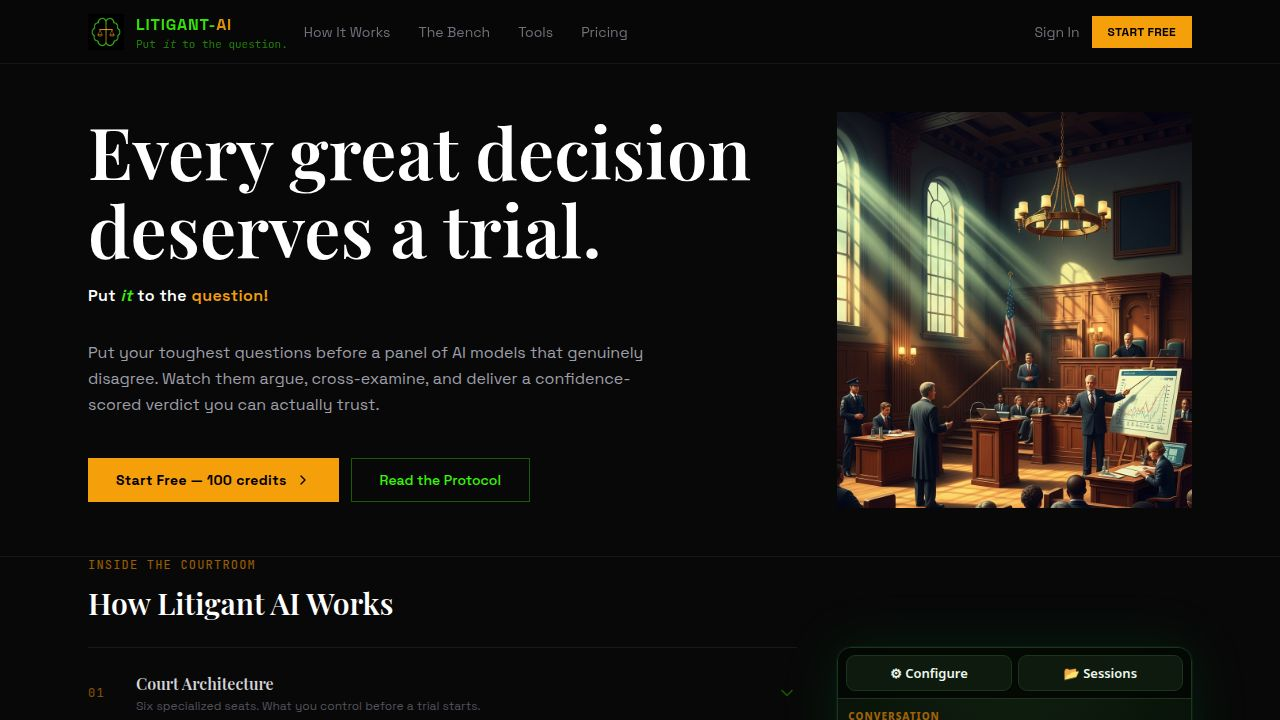
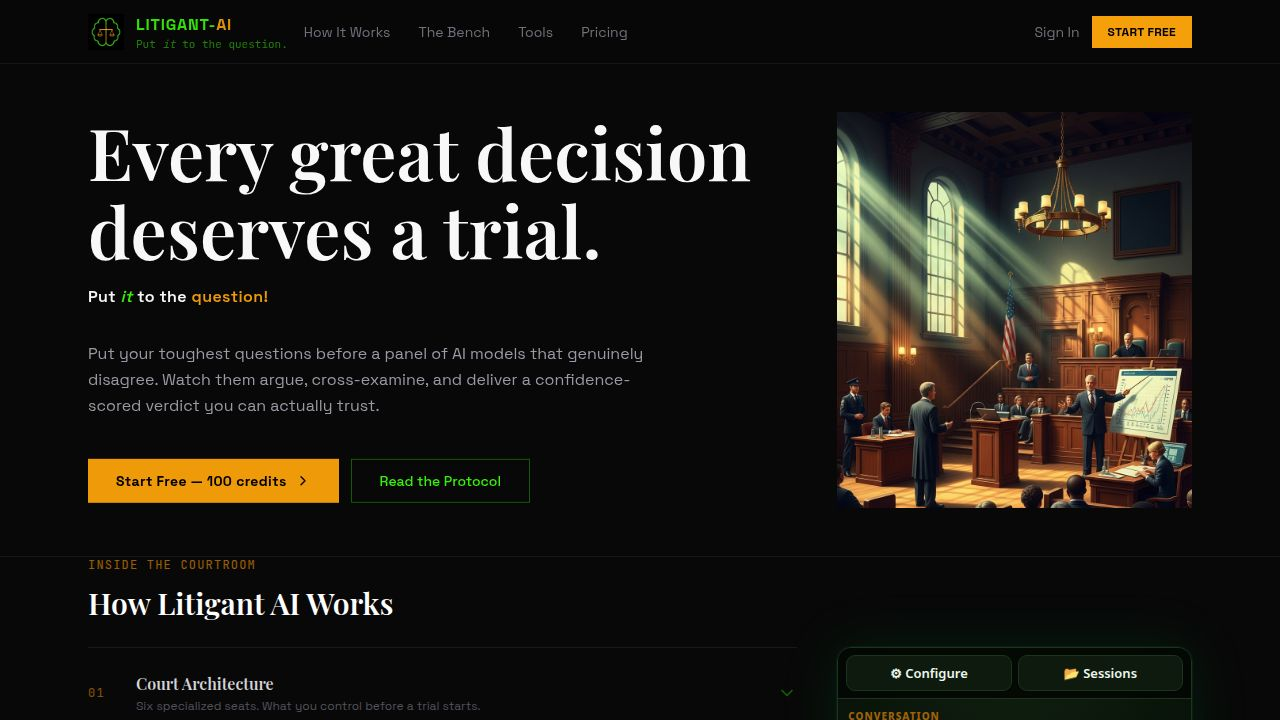
Restore development server for automated testing purposes
Re-enable the development server by updating the artifact.toml configuration to execute the dev command. This was necessary to allow automated end-to-end tests to pass, as they rely on the development server for their execution environment.

Replit-Commit-Author: Agent
Replit-Commit-Session-Id: 438ad075-e689-4932-a55e-c6183c91ffb4
Replit-Commit-Checkpoint-Type: full_checkpoint
Replit-Commit-Event-Id: f5edb2e9-7853-492a-ac23-9a8daffcbb7e
Replit-Commit-Screenshot-Url: https://storage.googleapis.com/screenshot-production-us-central1/2bc7216c-3112-4806-a45d-fb63cb185ae4/438ad075-e689-4932-a55e-c6183c91ffb4/Bc6pdLd
Replit-Helium-Checkpoint-Created: true

diff --git a/artifacts/gh-brain/test-results/pdf-export-PDF-export-—-tr-3a40d-nd-only-success-toast-fires/error-context.md b/artifacts/gh-brain/test-results/pdf-export-PDF-export-—-tr-3a40d-nd-only-success-toast-fires/error-context.md
@@ -1,0 +1,136 @@
+# Instructions
+
+- Following Playwright test failed.
+- Explain why, be concise, respect Playwright best practices.
+- Provide a snippet of code with the fix, if possible.
+
+# Test info
+
+- Name: pdf-export.spec.ts >> PDF export — trim guard >> short content: PDF downloads and only success toast fires
+- Location: e2e/pdf-export.spec.ts:41:3
+
+# Error details
+
+```
+Error: page.goto: net::ERR_HTTP_RESPONSE_CODE_FAILURE at https://2bc7216c-3112-4806-a45d-fb63cb185ae4-00-21aabxfgxor81.worf.replit.dev/session?e2e=1
+Call log:
+  - navigating to "https://2bc7216c-3112-4806-a45d-fb63cb185ae4-00-21aabxfgxor81.worf.replit.dev/session?e2e=1", waiting until "domcontentloaded"
+
+```
+
+# Page snapshot
+
+```yaml
+- generic [ref=e3]:
+  - generic [ref=e6]:
+    - heading "This page isn’t working" [level=1] [ref=e7]
+    - paragraph [ref=e8]:
+      - strong [ref=e9]: 2bc7216c-3112-4806-a45d-fb63cb185ae4-00-21aabxfgxor81.worf.replit.dev
+      - text: is currently unable to handle this request.
+    - generic [ref=e10]: HTTP ERROR 502
+  - button "Reload" [ref=e13] [cursor=pointer]
+```
+
+# Test source
+
+```ts
+  1  | import { test, expect } from "@playwright/test";
+  2  | 
+  3  | /**
+  4  |  * PDF export end-to-end tests.
+  5  |  *
+  6  |  * These tests use two dev-only hooks that were added alongside this test file:
+  7  |  *
+  8  |  * 1. ?e2e=1 URL param  — ProtectedRoute skips Firebase auth checks in DEV mode
+  9  |  *    so we can access /session without signing in.
+  10 |  *
+  11 |  * 2. window.__testPdfExport(finalAnswer) — registered by SessionPage's useEffect
+  12 |  *    (DEV only). Injects a completed session state (phase="complete",
+  13 |  *    config.format="pdf") with the supplied finalAnswer, making the output panel
+  14 |  *    and PDF download button visible without running a real AI session.
+  15 |  */
+  16 | 
+  17 | const SESSION_URL = "/session?e2e=1";
+  18 | 
+  19 | async function loadSessionPage(page: import("@playwright/test").Page) {
+> 20 |   await page.goto(SESSION_URL, { waitUntil: "domcontentloaded" });
+     |              ^ Error: page.goto: net::ERR_HTTP_RESPONSE_CODE_FAILURE at https://2bc7216c-3112-4806-a45d-fb63cb185ae4-00-21aabxfgxor81.worf.replit.dev/session?e2e=1
+  21 |   // Wait for React to mount and the dev hook to register
+  22 |   await page.waitForFunction(
+  23 |     () => typeof (window as any).__testPdfExport === "function",
+  24 |     { timeout: 15_000 }
+  25 |   );
+  26 | }
+  27 | 
+  28 | async function injectCompletedSession(
+  29 |   page: import("@playwright/test").Page,
+  30 |   finalAnswer: string
+  31 | ) {
+  32 |   await page.evaluate((fa) => {
+  33 |     (window as any).__testPdfExport(fa);
+  34 |   }, finalAnswer);
+  35 | 
+  36 |   // Wait for the output panel to appear (phase transitions to "complete")
+  37 |   await page.waitForSelector('button:has-text("PDF")', { timeout: 10_000 });
+  38 | }
+  39 | 
+  40 | test.describe("PDF export — trim guard", () => {
+  41 |   test("short content: PDF downloads and only success toast fires", async ({
+  42 |     page,
+  43 |   }) => {
+  44 |     await loadSessionPage(page);
+  45 | 
+  46 |     const shortAnswer = "The court finds in favour of the claimant.";
+  47 |     await injectCompletedSession(page, shortAnswer);
+  48 | 
+  49 |     // Start watching for a download triggered by jsPDF's doc.save()
+  50 |     const downloadPromise = page.waitForEvent("download", { timeout: 10_000 });
+  51 | 
+  52 |     // Click the "PDF" download button (not the "Print" button)
+  53 |     // It is the button whose exact text is "PDF" — Print comes right after it
+  54 |     await page.locator('button', { hasText: /^PDF$/ }).click();
+  55 | 
+  56 |     // The download must succeed
+  57 |     const download = await downloadPromise;
+  58 |     expect(download.suggestedFilename()).toMatch(/brain-session-\d+\.pdf/);
+  59 | 
+  60 |     // Success toast must appear
+  61 |     await expect(page.locator("text=PDF downloaded")).toBeVisible({
+  62 |       timeout: 5_000,
+  63 |     });
+  64 | 
+  65 |     // Warning toast must NOT appear
+  66 |     const warningToast = page.locator("text=trimmed");
+  67 |     await expect(warningToast).not.toBeVisible();
+  68 |   });
+  69 | 
+  70 |   test("long content (>15 000 chars): PDF downloads AND trim warning toast fires", async ({
+  71 |     page,
+  72 |   }) => {
+  73 |     await loadSessionPage(page);
+  74 | 
+  75 |     // 20 000 chars — well over the 15 000 char limit
+  76 |     const longAnswer = "A".repeat(20_000);
+  77 |     await injectCompletedSession(page, longAnswer);
+  78 | 
+  79 |     const downloadPromise = page.waitForEvent("download", { timeout: 10_000 });
+  80 | 
+  81 |     await page.locator('button', { hasText: /^PDF$/ }).click();
+  82 | 
+  83 |     // The download must succeed even for trimmed content
+  84 |     const download = await downloadPromise;
+  85 |     expect(download.suggestedFilename()).toMatch(/brain-session-\d+\.pdf/);
+  86 | 
+  87 |     // Success toast must appear
+  88 |     await expect(page.locator("text=PDF downloaded")).toBeVisible({
+  89 |       timeout: 5_000,
+  90 |     });
+  91 | 
+  92 |     // Warning toast must ALSO appear
+  93 |     await expect(page.locator("text=trimmed")).toBeVisible({
+  94 |       timeout: 5_000,
+  95 |     });
+  96 |   });
+  97 | });
+  98 | 
+```

diff --git a/artifacts/gh-brain/test-results/pdf-export-PDF-export-—-tr-8f87d-ND-trim-warning-toast-fires/error-context.md b/artifacts/gh-brain/test-results/pdf-export-PDF-export-—-tr-8f87d-ND-trim-warning-toast-fires/error-context.md
@@ -1,0 +1,136 @@
+# Instructions
+
+- Following Playwright test failed.
+- Explain why, be concise, respect Playwright best practices.
+- Provide a snippet of code with the fix, if possible.
+
+# Test info
+
+- Name: pdf-export.spec.ts >> PDF export — trim guard >> long content (>15 000 chars): PDF downloads AND trim warning toast fires
+- Location: e2e/pdf-export.spec.ts:70:3
+
+# Error details
+
+```
+Error: page.goto: net::ERR_HTTP_RESPONSE_CODE_FAILURE at https://2bc7216c-3112-4806-a45d-fb63cb185ae4-00-21aabxfgxor81.worf.replit.dev/session?e2e=1
+Call log:
+  - navigating to "https://2bc7216c-3112-4806-a45d-fb63cb185ae4-00-21aabxfgxor81.worf.replit.dev/session?e2e=1", waiting until "domcontentloaded"
+
+```
+
+# Page snapshot
+
+```yaml
+- generic [ref=e3]:
+  - generic [ref=e6]:
+    - heading "This page isn’t working" [level=1] [ref=e7]
+    - paragraph [ref=e8]:
+      - strong [ref=e9]: 2bc7216c-3112-4806-a45d-fb63cb185ae4-00-21aabxfgxor81.worf.replit.dev
+      - text: is currently unable to handle this request.
+    - generic [ref=e10]: HTTP ERROR 502
+  - button "Reload" [ref=e13] [cursor=pointer]
+```
+
+# Test source
+
+```ts
+  1  | import { test, expect } from "@playwright/test";
+  2  | 
+  3  | /**
+  4  |  * PDF export end-to-end tests.
+  5  |  *
+  6  |  * These tests use two dev-only hooks that were added alongside this test file:
+  7  |  *
+  8  |  * 1. ?e2e=1 URL param  — ProtectedRoute skips Firebase auth checks in DEV mode
+  9  |  *    so we can access /session without signing in.
+  10 |  *
+  11 |  * 2. window.__testPdfExport(finalAnswer) — registered by SessionPage's useEffect
+  12 |  *    (DEV only). Injects a completed session state (phase="complete",
+  13 |  *    config.format="pdf") with the supplied finalAnswer, making the output panel
+  14 |  *    and PDF download button visible without running a real AI session.
+  15 |  */
+  16 | 
+  17 | const SESSION_URL = "/session?e2e=1";
+  18 | 
+  19 | async function loadSessionPage(page: import("@playwright/test").Page) {
+> 20 |   await page.goto(SESSION_URL, { waitUntil: "domcontentloaded" });
+     |              ^ Error: page.goto: net::ERR_HTTP_RESPONSE_CODE_FAILURE at https://2bc7216c-3112-4806-a45d-fb63cb185ae4-00-21aabxfgxor81.worf.replit.dev/session?e2e=1
+  21 |   // Wait for React to mount and the dev hook to register
+  22 |   await page.waitForFunction(
+  23 |     () => typeof (window as any).__testPdfExport === "function",
+  24 |     { timeout: 15_000 }
+  25 |   );
+  26 | }
+  27 | 
+  28 | async function injectCompletedSession(
+  29 |   page: import("@playwright/test").Page,
+  30 |   finalAnswer: string
+  31 | ) {
+  32 |   await page.evaluate((fa) => {
+  33 |     (window as any).__testPdfExport(fa);
+  34 |   }, finalAnswer);
+  35 | 
+  36 |   // Wait for the output panel to appear (phase transitions to "complete")
+  37 |   await page.waitForSelector('button:has-text("PDF")', { timeout: 10_000 });
+  38 | }
+  39 | 
+  40 | test.describe("PDF export — trim guard", () => {
+  41 |   test("short content: PDF downloads and only success toast fires", async ({
+  42 |     page,
+  43 |   }) => {
+  44 |     await loadSessionPage(page);
+  45 | 
+  46 |     const shortAnswer = "The court finds in favour of the claimant.";
+  47 |     await injectCompletedSession(page, shortAnswer);
+  48 | 
+  49 |     // Start watching for a download triggered by jsPDF's doc.save()
+  50 |     const downloadPromise = page.waitForEvent("download", { timeout: 10_000 });
+  51 | 
+  52 |     // Click the "PDF" download button (not the "Print" button)
+  53 |     // It is the button whose exact text is "PDF" — Print comes right after it
+  54 |     await page.locator('button', { hasText: /^PDF$/ }).click();
+  55 | 
+  56 |     // The download must succeed
+  57 |     const download = await downloadPromise;
+  58 |     expect(download.suggestedFilename()).toMatch(/brain-session-\d+\.pdf/);
+  59 | 
+  60 |     // Success toast must appear
+  61 |     await expect(page.locator("text=PDF downloaded")).toBeVisible({
+  62 |       timeout: 5_000,
+  63 |     });
+  64 | 
+  65 |     // Warning toast must NOT appear
+  66 |     const warningToast = page.locator("text=trimmed");
+  67 |     await expect(warningToast).not.toBeVisible();
+  68 |   });
+  69 | 
+  70 |   test("long content (>15 000 chars): PDF downloads AND trim warning toast fires", async ({
+  71 |     page,
+  72 |   }) => {
+  73 |     await loadSessionPage(page);
+  74 | 
+  75 |     // 20 000 chars — well over the 15 000 char limit
+  76 |     const longAnswer = "A".repeat(20_000);
+  77 |     await injectCompletedSession(page, longAnswer);
+  78 | 
+  79 |     const downloadPromise = page.waitForEvent("download", { timeout: 10_000 });
+  80 | 
+  81 |     await page.locator('button', { hasText: /^PDF$/ }).click();
+  82 | 
+  83 |     // The download must succeed even for trimmed content
+  84 |     const download = await downloadPromise;
+  85 |     expect(download.suggestedFilename()).toMatch(/brain-session-\d+\.pdf/);
+  86 | 
+  87 |     // Success toast must appear
+  88 |     await expect(page.locator("text=PDF downloaded")).toBeVisible({
+  89 |       timeout: 5_000,
+  90 |     });
+  91 | 
+  92 |     // Warning toast must ALSO appear
+  93 |     await expect(page.locator("text=trimmed")).toBeVisible({
+  94 |       timeout: 5_000,
+  95 |     });
+  96 |   });
+  97 | });
+  98 | 
+```